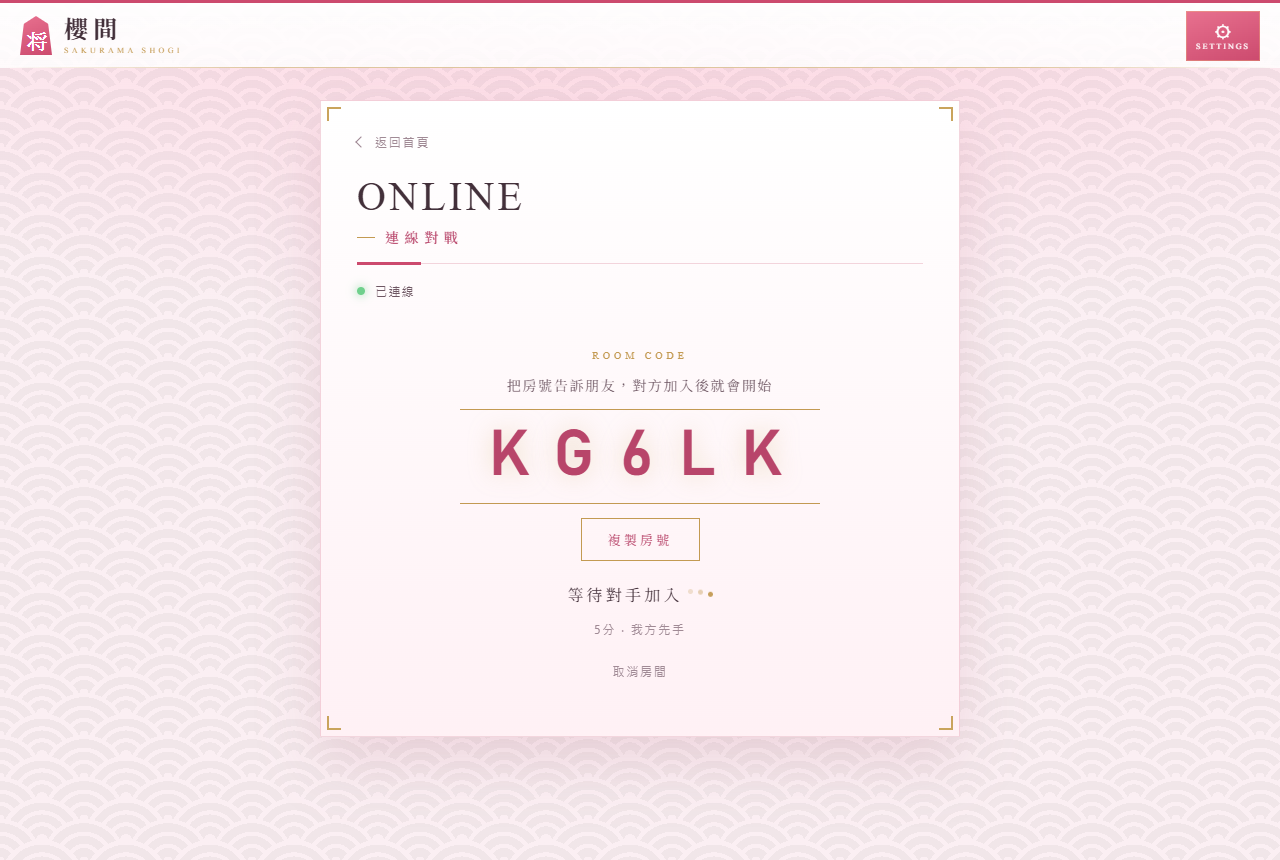
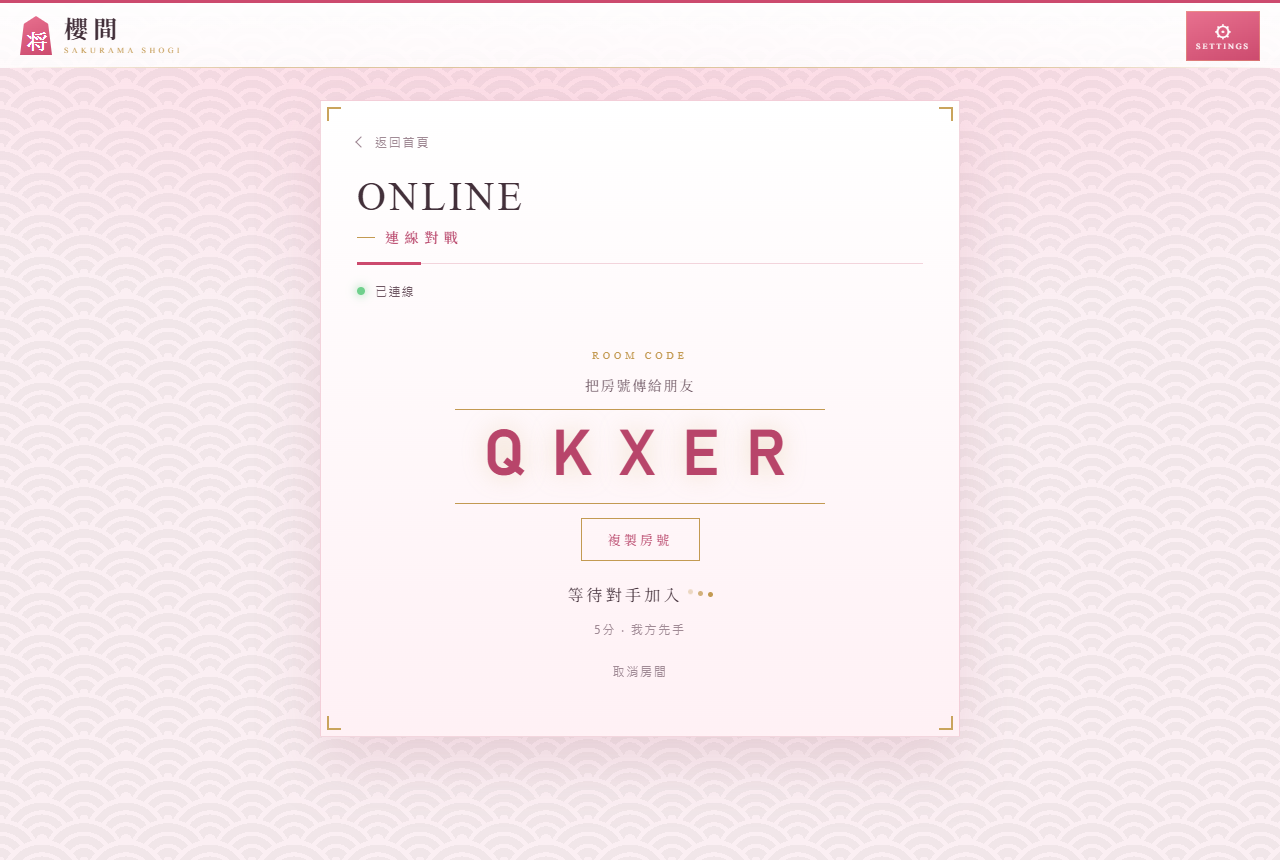
Trim explanatory copy and plain-language wording for players
Drop the descriptions under the lobby mode cards and the notes under the
match and create buttons; shorten the waiting and invite hints. Replace
engineer terms: the settings Network tab becomes Advanced with a plain
'server' field, no WebGL/MQTT/ws:// wording in messages, clearer
connection status, and friendlier undo/draw/rule text. Random-match
games show 'random match' instead of an internal room code.

Changed region(s): [[0.4375, 0.4837, 0.625, 0.5744], [0.4062, 0.4233, 0.5938, 0.4535], [0.375, 0.4837, 0.4062, 0.5744]]

diff --git a/index.html b/index.html
@@ -168,8 +168,7 @@
             >
               <span class="mode-seal">縁</span
               ><span class="mode-text"
-                ><b>隨機配對</b><small>QUICK MATCH</small
-                ><em>和線上任何一位玩家對局</em></span
+                ><b>隨機配對</b><small>QUICK MATCH</small></span
               >
             </button>
             <button
@@ -181,8 +180,7 @@
             >
               <span class="mode-seal">友</span
               ><span class="mode-text"
-                ><b>好友對戰</b><small>WITH FRIEND</small
-                ><em>邀請朋友，或加入朋友的房間</em></span
+                ><b>好友對戰</b><small>WITH FRIEND</small></span
               >
             </button>
           </div>
@@ -201,11 +199,8 @@
               ><label><input name="match-time" type="radio" value="600:30" /><span>10分<small>讀秒 30 秒</small></span></label>
             </fieldset>
             <button class="primary full" id="match-start" type="submit">
-              開始配對<small>MATCH</small>
+              開始配對
             </button>
-            <p class="card-note">
-              和選擇相同用時、正在等待的玩家配對，先後手隨機決定。
-            </p>
           </form>
 
           <div
@@ -217,8 +212,7 @@
             role="tabpanel"
           >
             <form id="create-form">
-              <h2 class="panel-head">建立房間<small>CREATE</small></h2>
-              <p class="card-note">建立後把房號或邀請連結傳給朋友，對方加入就開始。</p>
+              <h2 class="panel-head">建立房間</h2>
               <fieldset class="choice">
                 <legend>對局用時</legend>
                 <label><input name="room-time" type="radio" value="0" /><span>無限時</span></label
@@ -237,9 +231,9 @@
             </form>
             <div class="or-divider"><span>或</span></div>
             <form id="join-form">
-              <h2 class="panel-head">收到房號了？<small>JOIN</small></h2>
+              <h2 class="panel-head">加入朋友的房間</h2>
               <p class="card-note invite-note" hidden="" id="invite-note">
-                已帶入邀請的房號，按「加入」就能開始。
+                朋友邀請你加入這個房間
               </p>
               <div class="join-row">
                 <input
@@ -261,7 +255,7 @@
         </div>
         <div class="waiting">
           <span class="eyebrow">ROOM CODE</span>
-          <p class="waiting-lead">把房號告訴朋友，對方加入後就會開始</p>
+          <p class="waiting-lead">把房號傳給朋友</p>
           <div class="room-code" id="room-code-display"></div>
           <div class="share-buttons">
             <button class="secondary" id="room-copy">複製房號</button
@@ -438,7 +432,7 @@
           </p>
           <h3>讀秒與連線</h3>
           <p>
-            主時間用完後，每手可使用的時間，落子後重設。動畫時間不計入。連線對戰中離開或斷線超過
+            主時間用完後進入讀秒，每一手都要在讀秒時間內下完，落子動畫不計時。連線對戰中離開或斷線超過
             60 秒判負。
           </p>
           <p class="source-note">
@@ -472,7 +466,7 @@
         ><button aria-selected="false" data-tab="room" role="tab">
           棋室<small>ROOM</small></button
         ><button aria-selected="false" data-tab="network" role="tab">
-          連線<small>NETWORK</small>
+          進階<small>ADVANCED</small>
         </button>
       </div>
       <form class="tab-panel" data-panel="profile" id="profile-form">
@@ -495,13 +489,13 @@
             placeholder="輸入你的名字"
             required=""
         /></label>
-        <p class="field-note">PNG / JPG / WebP · 5 MB 以內</p>
+        <p class="field-note">頭像圖片 5 MB 以內</p>
         <div class="form-error" id="profile-error" role="alert"></div>
         <button class="primary full" type="submit">儲存<small>SAVE</small></button>
       </form>
       <div class="tab-panel" data-panel="room" hidden="">
         <label class="setting-row"
-          ><b>和服手部動畫</b
+          ><b>落子動畫</b
           ><input checked="" id="animation-setting" type="checkbox" /></label
         ><label class="setting-row"
           ><b>落子速度</b
@@ -511,7 +505,7 @@
             <option value="2600">慢賞</option>
           </select></label
         ><label class="setting-row"
-          ><b>合法走位提示</b
+          ><b>顯示可走位置</b
           ><input checked="" id="legal-setting" type="checkbox"
         /></label>
         <section class="ambience">
@@ -533,13 +527,15 @@
       </div>
       <form class="tab-panel" data-panel="network" hidden="" id="network-form">
         <label class="field"
-          >MQTT Broker（WebSocket）<input
+          >連線對戰伺服器<input
             autocomplete="off"
             id="broker-url"
             placeholder="wss://broker.emqx.io:8084/mqtt"
             spellcheck="false"
         /></label>
-        <p class="field-note">預設為公開測試伺服器，名稱與頭像會以明文傳送。</p>
+        <p class="field-note">
+          一般不需要更改。預設的伺服器是公開的，對戰時你的名稱與頭像別人也看得到。
+        </p>
         <div class="form-error" id="broker-error" role="alert"></div>
         <div class="dialog-buttons">
           <button class="secondary" id="broker-reset" type="button">恢復預設</button

diff --git a/src/app.js b/src/app.js
@@ -154,7 +154,7 @@ try {
 } catch (error) {
   console.error(error);
   $("#loading").innerHTML =
-    '<span class="loading-seal">将</span><p>無法啟用 WebGL，請開啟瀏覽器硬體加速後重新整理。</p>';
+    '<span class="loading-seal">将</span><p>這個瀏覽器無法顯示 3D 棋盤。請更新瀏覽器，或在瀏覽器設定中開啟「硬體加速」後重新整理。</p>';
   throw error;
 }
 $("#board-canvas").addEventListener("rendererror", (e) => toast(e.detail));
@@ -492,7 +492,9 @@ function modeLabel() {
   if (!session) return "";
   if (session.mode === "ai") return "平手 · 電腦對戰";
   if (session.mode === "local") return "平手 · 同機雙人";
-  return `連線對戰 · 房號 ${session.code}`;
+  return session.kind === "match"
+    ? "連線對戰 · 隨機配對"
+    : `連線對戰 · 房號 ${session.code}`;
 }
 function render(syncBoard = true) {
   if (!session) return;
@@ -845,7 +847,7 @@ const reasonText = (reason) =>
   })[reason] || "對局已結束。";
 function resultTitle() {
   const w = game.result?.winner;
-  if (w === null) return "無勝負 · 指し直し";
+  if (w === null) return "無勝負";
   if (session.mode === "local") return `${players[w].name}獲勝`;
   return w === session.mySide ? "勝利" : "敗北";
 }
@@ -902,7 +904,7 @@ $("#undo").onclick = () => {
   lastTick = Date.now();
   render();
   scheduleAI();
-  toast("已回到上一個可以思考的局面。");
+  toast("已悔棋。");
 };
 $("#hint").onclick = () => requestSearch("hint");
 function confirmAction(title, description, action) {
@@ -1033,7 +1035,8 @@ function closeNet() {
   renderNet();
 }
 let matchTimer = null,
-  pendingInvite = null;
+  pendingInvite = null,
+  onlineKind = "friend";
 function setLobby(state) {
   $("#online-page").dataset.state = state;
   clearInterval(matchTimer);
@@ -1092,10 +1095,10 @@ function renderNet() {
   $("#net-text").textContent =
     {
       idle: "尚未連線",
-      connecting: "連線伺服器中…",
+      connecting: "連線中…",
       online: "已連線",
       offline: "連線中斷，重新連線中…",
-      error: "無法連線到伺服器",
+      error: "無法連線，請確認網路後重試",
     }[netStatus] || "";
   $("#net-retry").hidden = netStatus !== "error";
   $("#room-create").disabled =
@@ -1111,6 +1114,7 @@ $("#create-form").onsubmit = async (e) => {
   e.preventDefault();
   store.room = { time: radio("room-time"), side: radio("room-side") };
   persist();
+  onlineKind = "friend";
   try {
     const code = await net.create({
       time: TIMES[store.room.time],
@@ -1130,6 +1134,7 @@ $("#match-form").onsubmit = async (e) => {
   e.preventDefault();
   store.match = { time: radio("match-time") };
   persist();
+  onlineKind = "match";
   $("#match-rule").textContent = `${timeLabel("match-time")} · 隨機先後`;
   setLobby("matching");
   const room = net;
@@ -1156,6 +1161,7 @@ $("#join-form").onsubmit = async (e) => {
     $("#join-error").textContent = "請輸入 5 碼房號。";
     return;
   }
+  onlineKind = "friend";
   setLobby("joining");
   try {
     await net.join(code, publicProfile());
@@ -1207,6 +1213,7 @@ function onlineStart(detail) {
     main,
     byoyomi,
     code: detail.code,
+    kind: onlineKind,
     players: mySide ? [opponent, store.profile] : [store.profile, opponent],
   });
   toast(detail.game > 1 ? "再戰開始！" : "對局開始！");
@@ -1487,7 +1494,7 @@ $("#avatar-file").onchange = async (e) => {
     file.size > 5 * 1024 * 1024
   ) {
     $("#profile-error").textContent =
-      "請選擇 5 MB 以下的 PNG、JPG 或 WebP 圖片。";
+      "請選擇 5 MB 以內的圖片。";
     return;
   }
   const url = URL.createObjectURL(file);
@@ -1538,7 +1545,7 @@ $("#network-form").onsubmit = (e) => {
   e.preventDefault();
   const url = $("#broker-url").value.trim();
   if (!/^wss?:\/\/\S+$/.test(url)) {
-    $("#broker-error").textContent = "請輸入 ws:// 或 wss:// 開頭的網址。";
+    $("#broker-error").textContent = "網址格式不正確，請確認後再試。";
     return;
   }
   store.broker = url;

diff --git a/src/style.css b/src/style.css
@@ -1609,13 +1609,6 @@ body[data-theme="spring"] .menu-grid button:hover:not(:disabled) small {
   letter-spacing: 0.3em;
   color: var(--kin);
 }
-.mode-text em {
-  margin-top: 4px;
-  font-size: 12px;
-  font-style: normal;
-  line-height: 1.5;
-  color: var(--muted);
-}
 .lobby-panel {
   margin-top: 16px;
   padding: 22px 20px;
@@ -1629,17 +1622,9 @@ body[data-theme="spring"] .menu-grid button:hover:not(:disabled) small {
   display: flex;
   align-items: baseline;
   gap: 10px;
-  margin: 0 0 6px;
+  margin: 0 0 14px;
   font: 600 17px var(--mincho);
   letter-spacing: 0.18em;
-}
-.panel-head small {
-  font: 9px var(--display);
-  letter-spacing: 0.35em;
-  color: var(--kin);
-}
-.friend-panel .card-note {
-  margin-bottom: 16px;
 }
 .or-divider {
   display: flex;
@@ -1690,6 +1675,7 @@ body[data-theme="spring"] .menu-grid button:hover:not(:disabled) small {
   display: none;
 }
 .invite-note {
+  margin: -6px 0 10px;
   color: var(--kin-light);
 }
 .card-note {
@@ -2692,9 +2678,6 @@ dialog::backdrop {
   }
   .mode-text b {
     font-size: 16px;
-  }
-  .mode-text em {
-    display: none;
   }
   .lobby-panel {
     padding: 18px 14px;

diff --git a/src/scene/scene.js b/src/scene/scene.js
@@ -274,7 +274,7 @@ export class BoardScene {
       e.preventDefault();
       container.dispatchEvent(
         new CustomEvent("rendererror", {
-          detail: "圖形連線中斷，請重新整理頁面。",
+          detail: "棋盤畫面出錯，請重新整理頁面。",
         }),
       );
     });

diff --git a/README.md b/README.md
@@ -20,7 +20,7 @@ npm start
 首頁 ─┬─ 電腦對戰 → 棋力／先後手／用時 ──┐
       ├─ 連線對戰 → 隨機配對 或 好友對戰（建立房間／輸入房號） ─┼→ 對局 → 終局：回顧・下載 KIF・再來一局・回到首頁
       └─ 同機雙人 → 對手名稱／用時 ───────┘
-右上「設定」：玩家（名稱、頭像）／棋室（光線、音效、陰影、動畫、提示）／連線（broker）
+右上「設定」：玩家（名稱、頭像）／棋室（光線、音效、陰影、動畫、提示）／進階（連線對戰伺服器）
 ```
 
 - 對局一旦開始就不能中途離開再接回：重新整理或關閉頁面不會恢復棋局；對局中點標誌或按上一頁會先確認，連線對戰中離開視為投了。
@@ -41,7 +41,7 @@ npm start
 
 ## 連線對戰（MQTT）
 
-預設 broker 為公開測試伺服器 `wss://broker.emqx.io:8084/mqtt`，可在「設定 → 連線」改成自己的 WebSocket broker（`ws://` 或 `wss://`）。公開伺服器上任何人都能訂閱主題，名稱與頭像會以明文傳送，只適合休閒對局。
+預設 broker 為公開測試伺服器 `wss://broker.emqx.io:8084/mqtt`，可在「設定 → 進階」改成自己的 WebSocket broker（`ws://` 或 `wss://`）。公開伺服器上任何人都能訂閱主題，名稱與頭像會以明文傳送，只適合休閒對局。
 
 進入連線對戰後先選對手，頁面會記住上次的選擇：
 

diff --git a/docs/OVERVIEW.md b/docs/OVERVIEW.md
@@ -143,7 +143,7 @@ app.js ──postMessage(局面, 深度, 時限)──▶ ai-worker.js（Web Wor
 | 函式庫 | **MQTT.js 5.15.2** 瀏覽器 ES 模組，放在 `vendor/mqtt.esm.js`，不依賴 CDN |
 | 協定版本 | **MQTT 5.0** |
 | 傳輸層 | **MQTT over WebSocket**（`ws://` 或 `wss://`） |
-| 預設 broker | EMQX 公開測試伺服器 `wss://broker.emqx.io:8084/mqtt`，可在「設定 → 連線」改成自己的 broker |
+| 預設 broker | EMQX 公開測試伺服器 `wss://broker.emqx.io:8084/mqtt`，可在「設定 → 進階」改成自己的 broker |
 | 訊息格式 | JSON |
 | 程式位置 | `src/online/net.js`（`OnlineRoom` 類別）、`src/app.js`（對局同步） |
 
